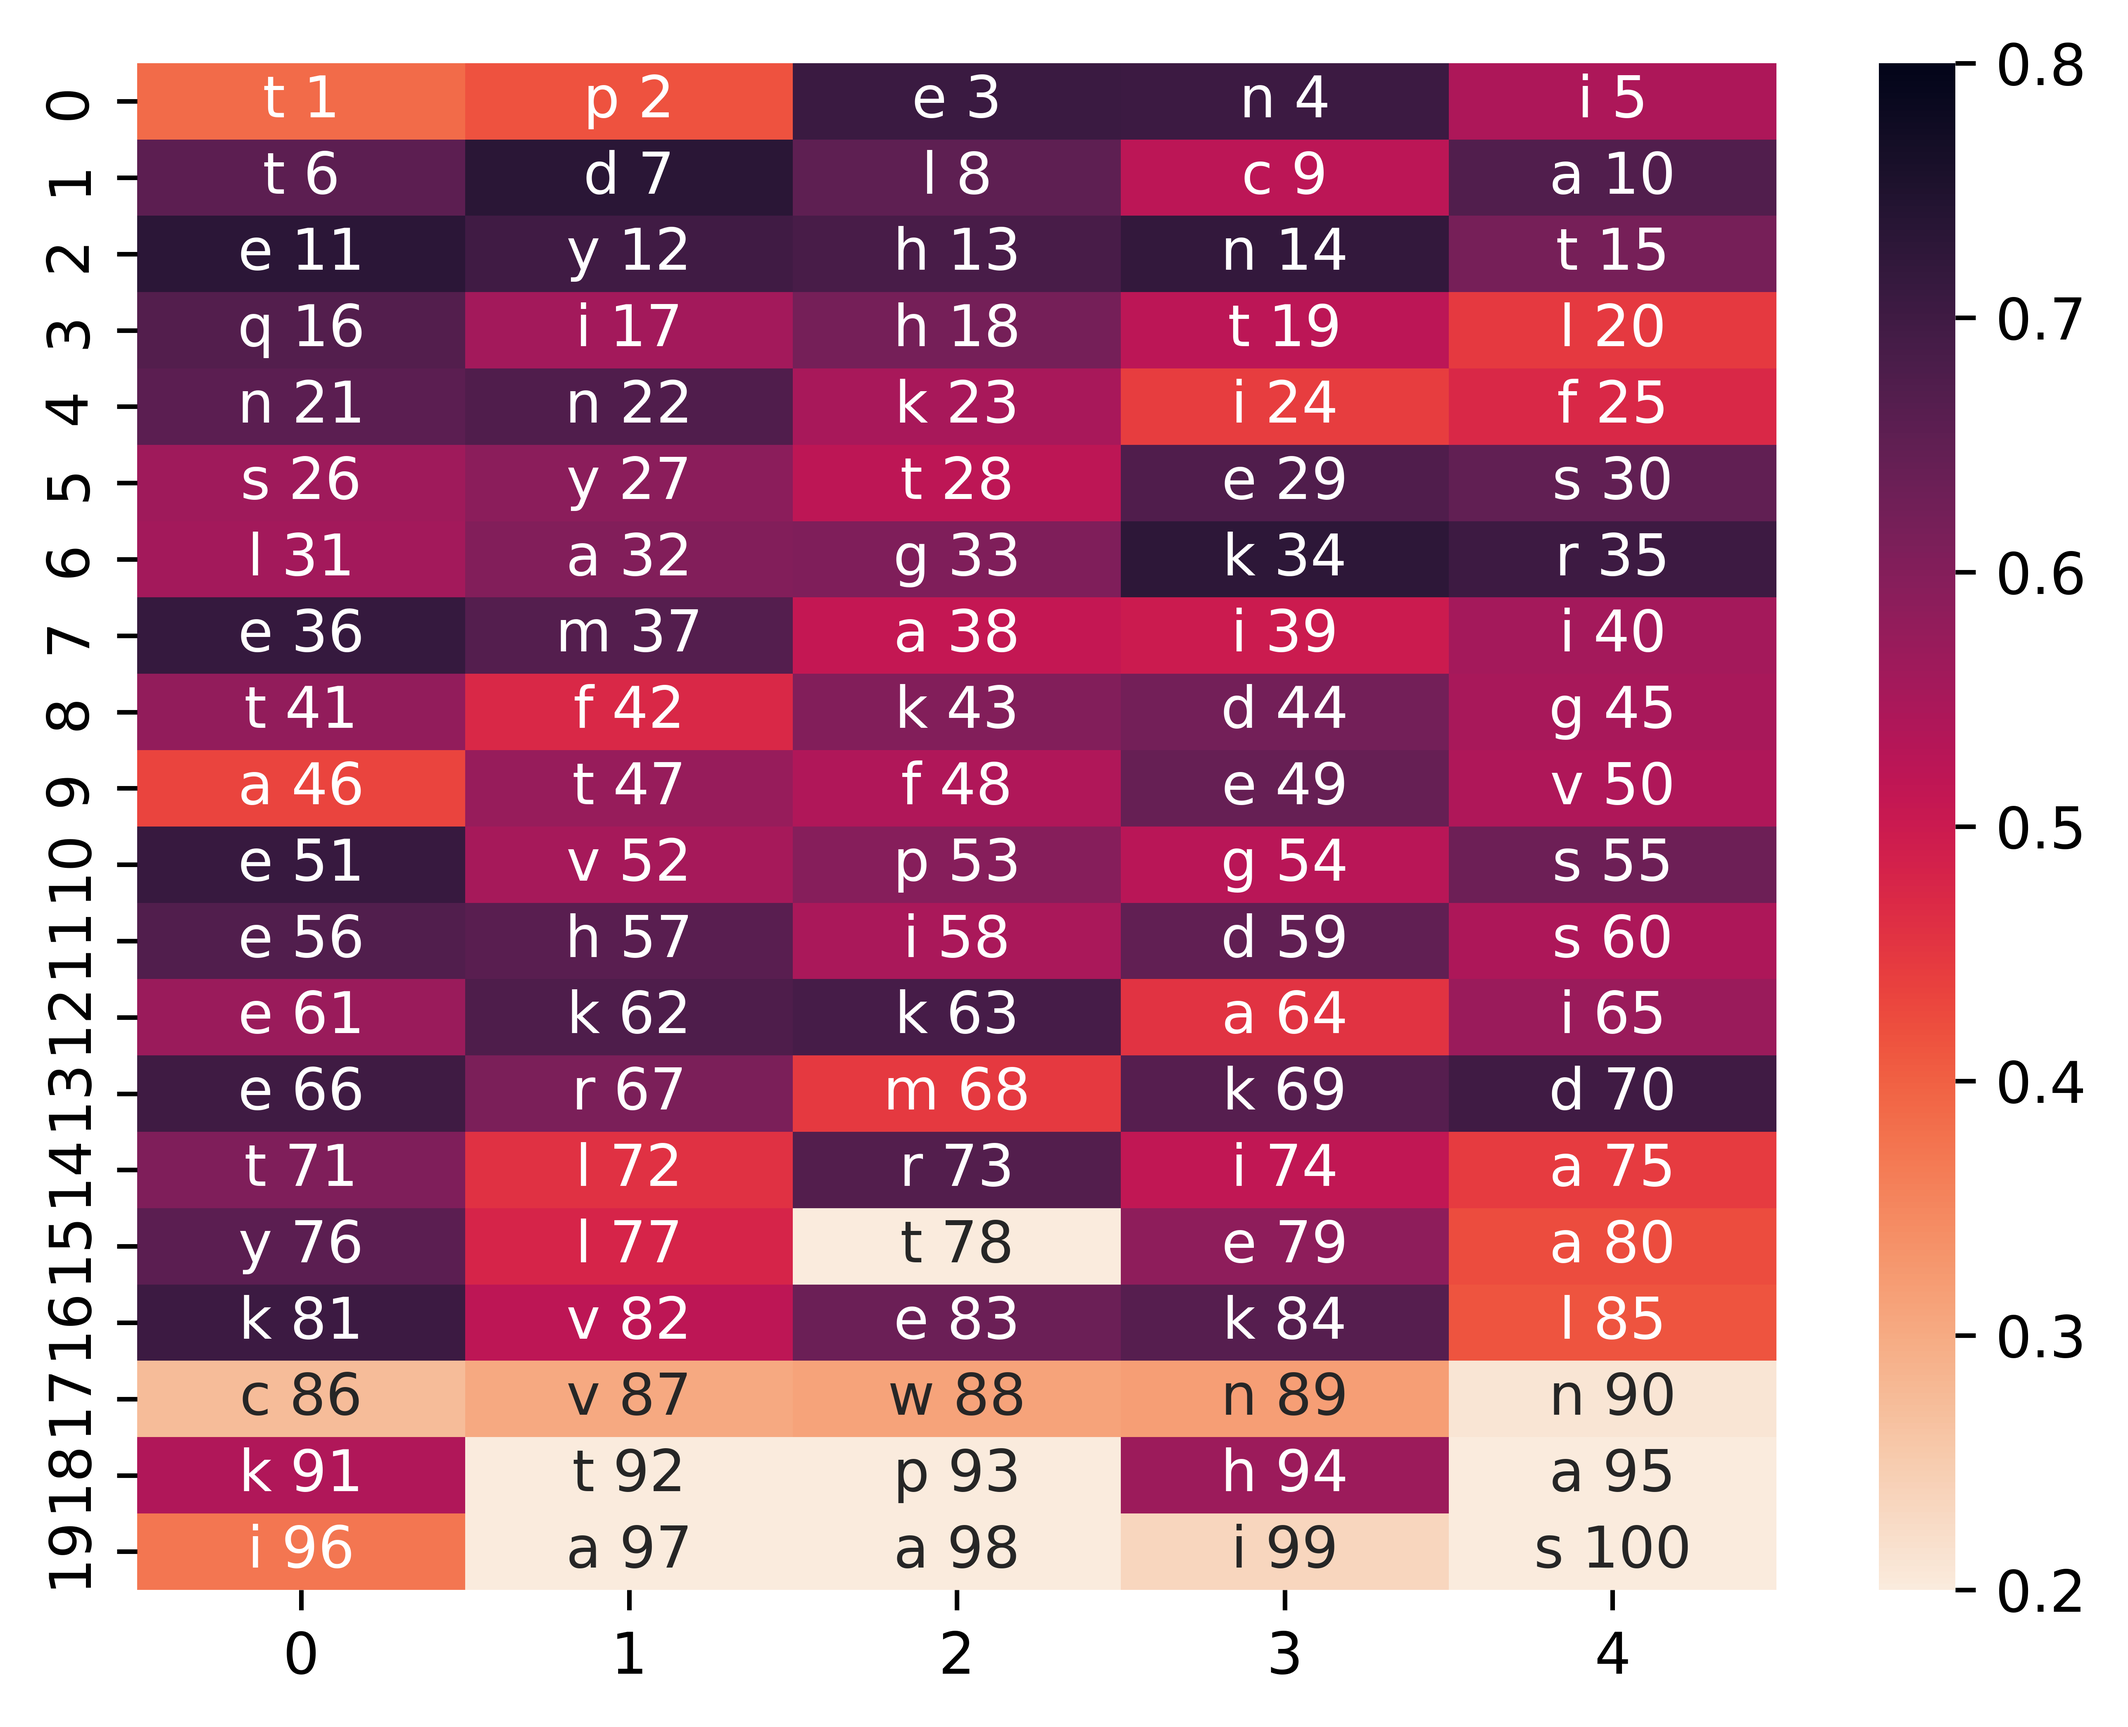
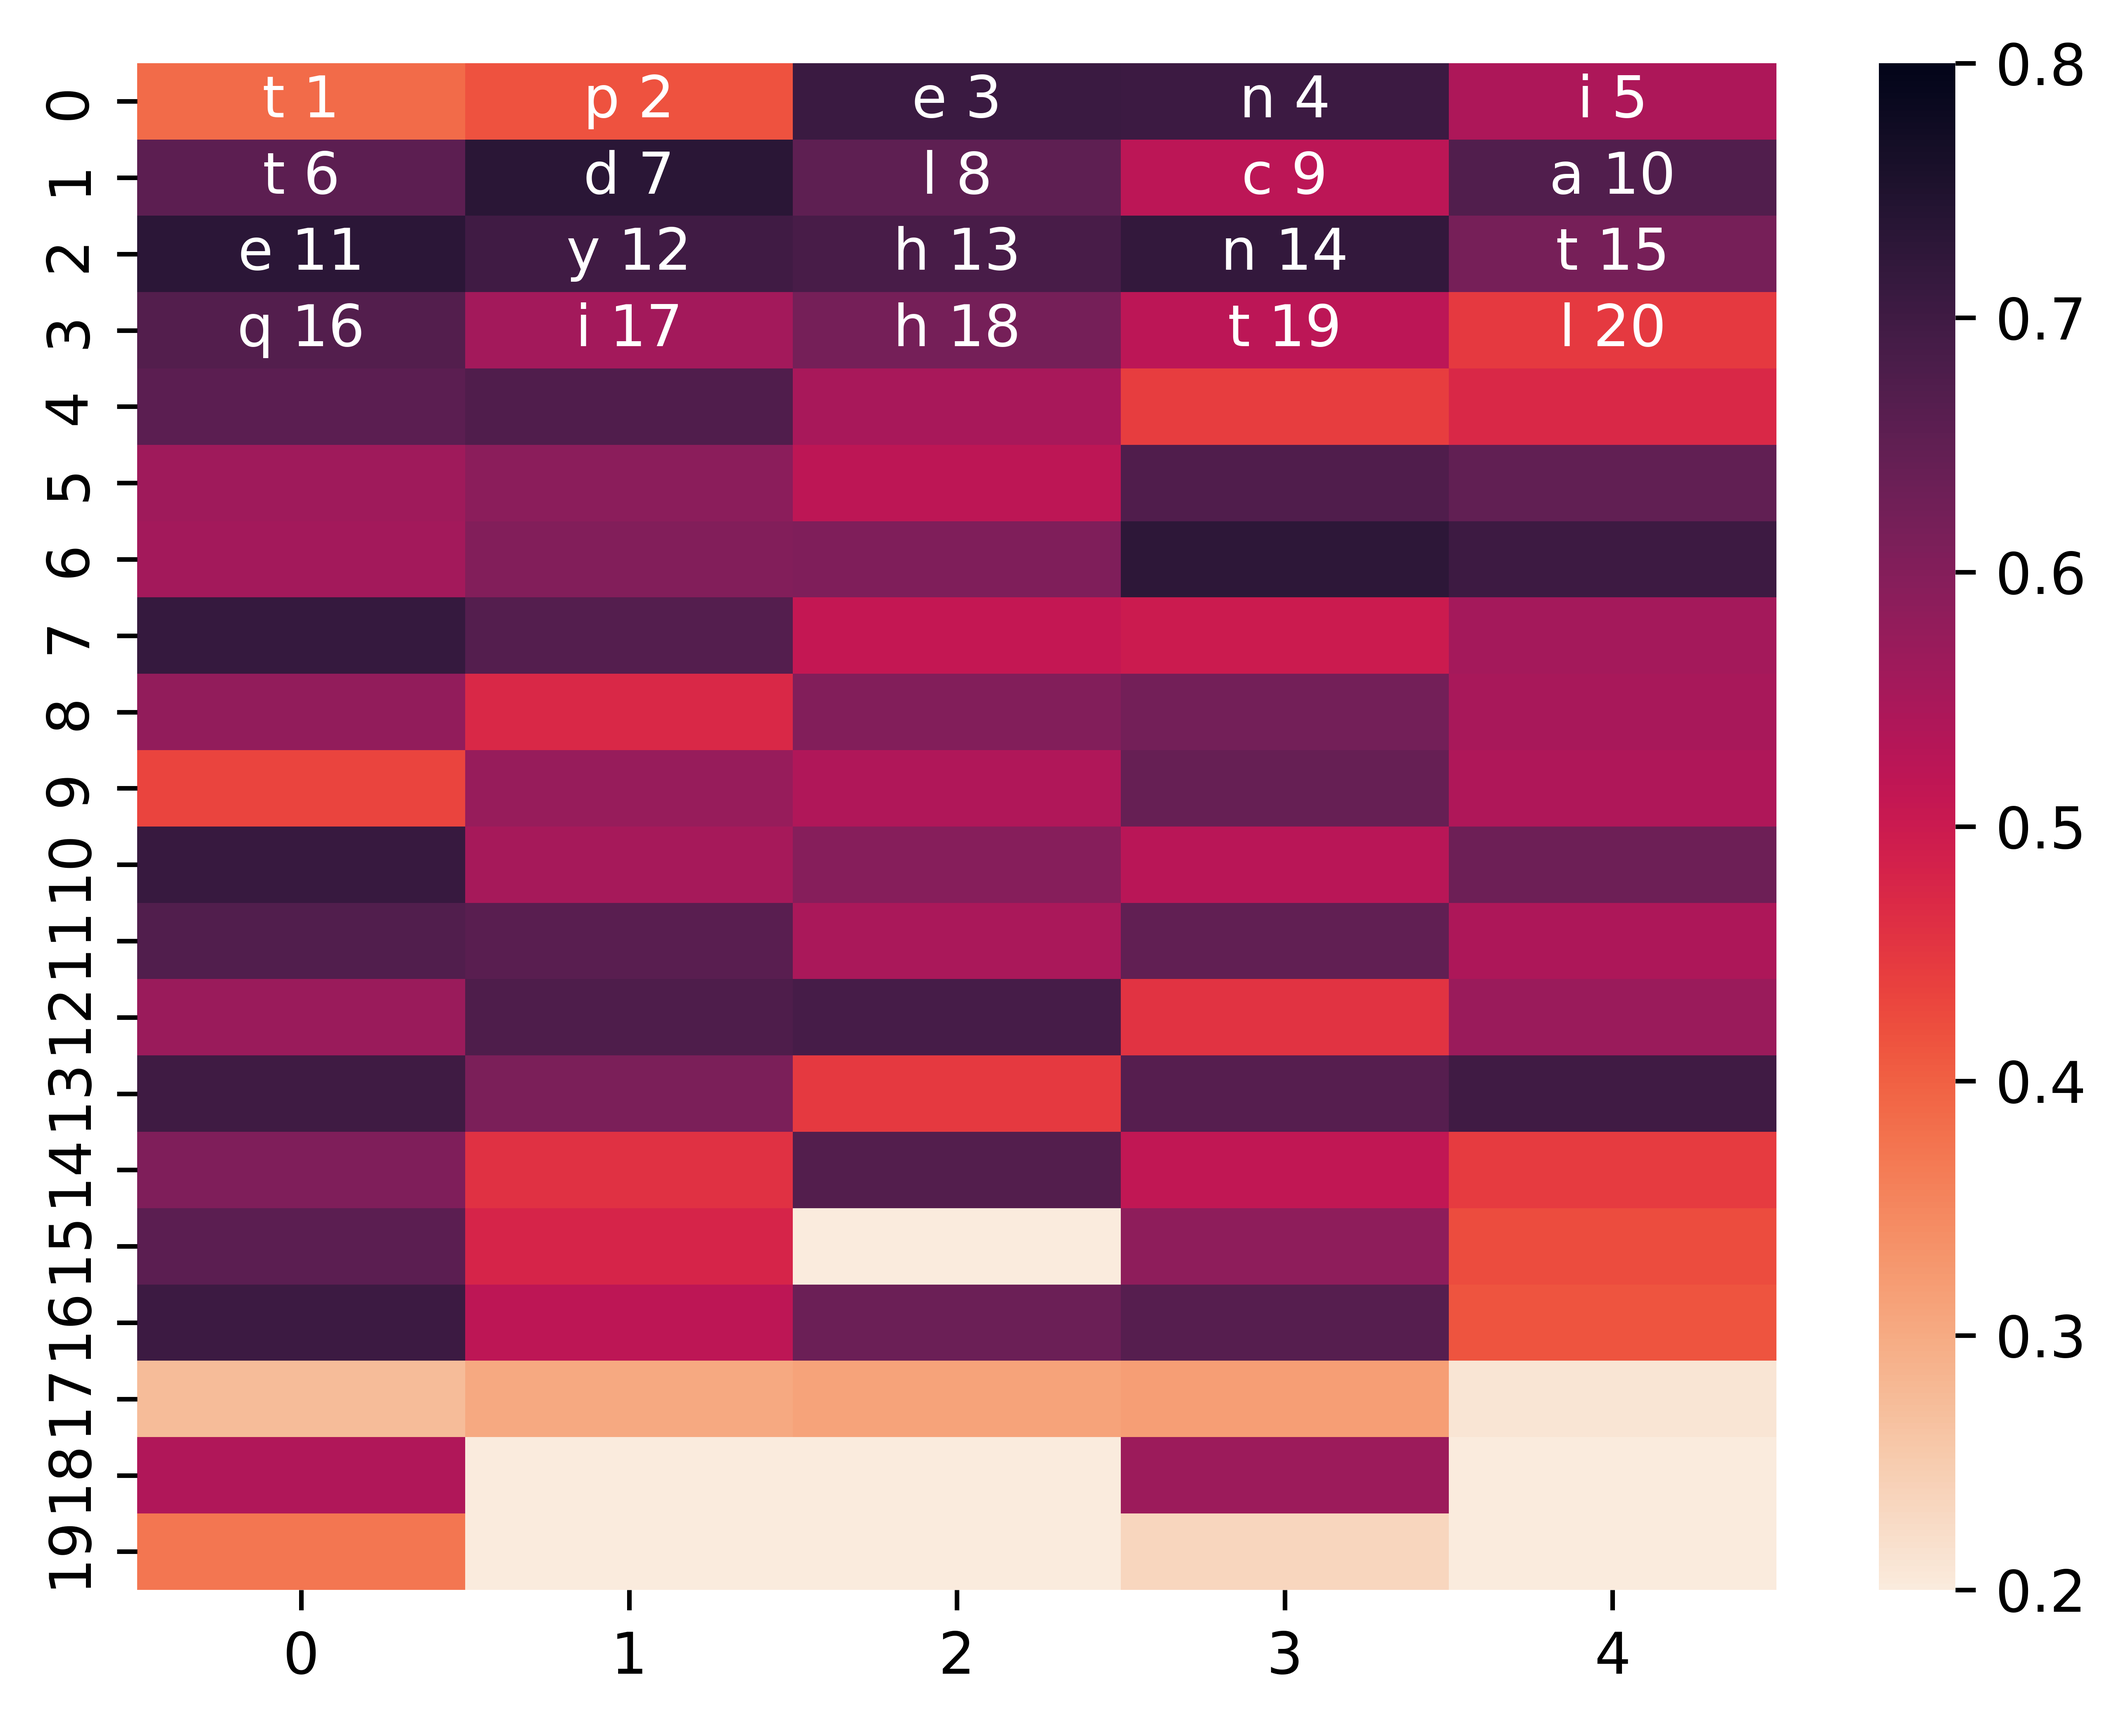
Heatmap rework

diff --git a/Colab.py b/Colab.py
@@ -1198,7 +1198,7 @@ def use_model_and_predict():
     for i, (pred, seq) in enumerate(zip(predictions, sequence)):
         for (j, seq2) in zip(pred, sequence):
             pred_list.append(j)
-            sequence_list_for_further_stuff.append(seq2 + " " + str(x))
+            sequence_list_for_further_stuff.append(seq2)
             print(str(x) + ": " + str(j) + " - " + str(sequence[x - 1]))
             x += 1
 
@@ -1210,7 +1210,7 @@ def create_better_heatmap(data, sequence, sequence_list):
     Output: Heatmaps according to the predictions for the whole sequence entered"""
 
     data = np.array(data[:len(sequence)], dtype = np.float32)
-    sequence_list = np.array(sequence_list[:len(sequence)], dtype = np.str)
+    sequence_list = np.array(sequence_list[:len(sequence)], dtype = str) ## used to be np.str
 
     data_list, sequence_list = create_blocks(data, sequence_list)
     print(data_list, sequence_list)
@@ -1220,10 +1220,10 @@ def create_better_heatmap(data, sequence, sequence_list):
     print(data_list.shape)
 
     """change the path to a folder to save the pictuers in"""
-    filename = "G:/Users/tinys/PycharmProjects/teststuff/AI/pictures/" + str(8) + ".png"
+    filename = "G:/Users/tinys/PycharmProjects/teststuff/AI/pictures/" + str(11) + ".png"
 
     plt.figure(dpi = 1000)
-    sb.heatmap(data_list, vmin = 0.2, vmax = 0.8, cmap = "rocket_r", annot=sequence_list, fmt="")
+    sb.heatmap(data_list, xticklabels = False, yticklabels = False, vmin = 0.2, vmax = 0.8, cmap = "rocket_r", annot=sequence_list, fmt="")
     plt.savefig(filename, dpi = 1000, bbox_inches = "tight")
     plt.show()
 
